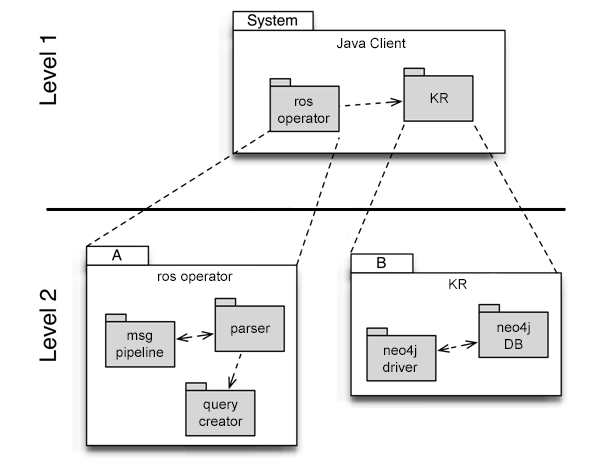
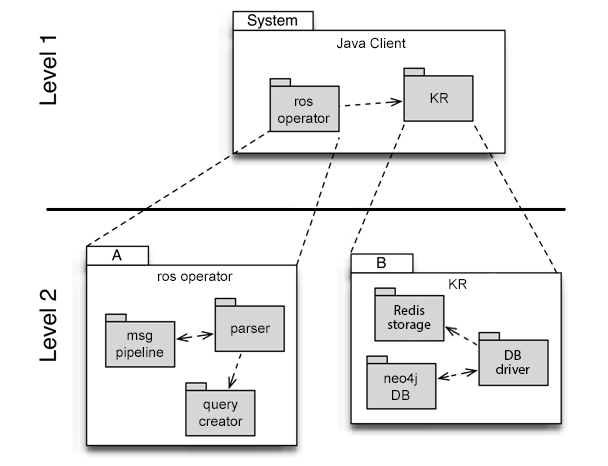
Development is finished

Changed region(s): [[0.5625, 0.6009, 0.9375, 0.9313]]

diff --git a/docs/development/00_solution_strategy.rst b/docs/development/00_solution_strategy.rst
@@ -3,24 +3,27 @@ Solution Strategy
 
 **Basic decisions for Memory Module:**
 
-- Seperation of concern through decoupling request processing and a persistency layer.
+- Separation of concern through decoupling request processing and a persistence layer.
 - Iterative and incremental development is adopted.
-- Highest priority is Knowledge Representation implementation to satisfy the requirements and abilities for Dialog. Roboy Communication Standard is of the second priority as it follows the KR structure. The following priority is providing other modules with actual client and interfaces for the usage. 
+- Highest priority is Knowledge Representation implementation to satisfy the requirements and abilities for Dialog. Roboy Communication Standard is of the second priority as it follows the KR structure. The following priority is providing other modules with actual client and interfaces for the usage.
 - For Knowledge Representation, a graph-based approach was chosen. Thus the persistency layer is presented by Neo4j graph database.
 - Client for request processing is implemented on top of rosjava.
 
 **Current implementation:**
 
 - Graph-based Knowledge Representation ver. 1.1 on remote server.
+- Redis for face features storage on remote server.
 - Roboy Communication Standard commands pool.
-- Basic client software.
+- Java client software.
 
 Motivation
 ----------------
 
-The motivation to use a graph-based approach was easier (and probably more obvious) maintainance of relations and basic inference contained in graph-models by definition.
+The motivation to use a graph-based approach was easier (and probably more obvious) maintenance of relations and basic inference contained in graph-models by definition.
 
-Java was the choice for development because it is Neo4j native language, thus has better support. 
+Java was the choice for development because it is Neo4j native language, thus has better support.
+
+Redis was chosen as a simple yet powerful and fast (which is important for online face recognition) key-value storage.
 
 Choice of rosjava was forced by both the usage of Java and ros as means of communication between Roboy parts.
 

diff --git a/docs/development/9_Libraries.rst b/docs/development/9_Libraries.rst
@@ -9,5 +9,7 @@ Contains a list of the libraries and external software used by this system.
   :header: "Name", "URL/Author", "License", Description
 
   "junit", "http://junit.org/junit4/", "Eclipse Public License - v 1.0", "a simple framework to write repeatable tests"
-  "Neo4j driver", "https://neo4j.com/download/other-releases/#drivers", "Apache License, V. 2.0", "access to the Neo4j graph database through Java"
-  "rosjava", "https://github.com/rosjava/rosjava_core", "Apache License, V. 2.0", "a client library for ros communications in java as well as growing list of core tools (e.g. tf, geometry) and drivers (e.g. hokuyo)"
+  "Neo4j driver", "https://neo4j.com/download/other-releases/#drivers", "Apache License, v. 2.0", "access to the Neo4j graph database through Java"
+  "rosjava", "https://github.com/rosjava/rosjava_core", "Apache License, v. 2.0", "a client library for ros communications in java as well as growing list of core tools (e.g. tf, geometry) and drivers (e.g. hokuyo)"
+  "Jedis", "https://github.com/xetorthio/jedis", "MIT License", "a small and sane Redis java client"
+  "Gson", "https://github.com/google/gson", "Apache License, v. 2.0", "a Java serialization/deserialization library to convert Java Objects into JSON and back"

diff --git a/docs/development/07_runtime_view.rst b/docs/development/07_runtime_view.rst
@@ -3,14 +3,13 @@
 Runtime View
 ============
 
+**UML-type sequence diagram** - Shows how components interact with each other during runtime.
 
 Runtime Scenario 1 - Read person's name by id
 -----------------------------------------------
 
 .. figure:: images/IS-O_sequence.*
   :alt: Demo Sequence diagram
-
-  **UML-type sequence diagram** - Shows how components interact with each other during runtime.
 
 
 Runtime Scenario 2 - Write person's birthday by id
@@ -19,4 +18,9 @@ Runtime Scenario 2 - Write person's birthday by id
 .. figure:: images/IS-O_sequence2.*
   :alt: Demo Sequence diagram
 
-  **UML-type sequence diagram** - Shows how components interact with each other during runtime.
+
+General Sequence Workflow
+----------------------------------------------------
+
+.. figure:: images/sequence.*
+  :alt: Sequence Workflow diagram
